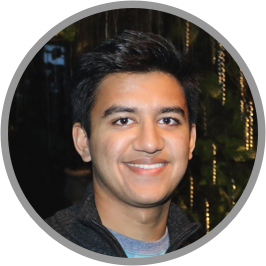
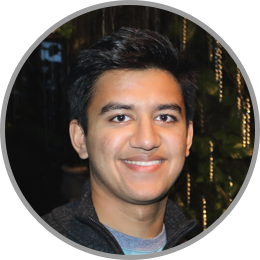
adjusted picture, changed colors, add resume link

diff --git a/index.html b/index.html
@@ -33,9 +33,7 @@
   				<!-- picture frame -->
   				<div onclick="" class="col-md-4 col-sm-4 col-xs-12 center-block" id="image-holder" style="text-align:right; margin-top: 110px;">
   					<img class="home-image" src="Resources/picture_frame.png">
-  					<img class="home-image hiddenFrame one" src="Resources/picture_frame.png">
-  					<img class="home-image hiddenFrame" src="Resources/picture_frame.png">
-  					<img class="home-image hiddenFrame" src="Resources/picture_frame.png">
+  
   				</div>
 
   				<div class="col-md-8 col-sm-8 col-xs-12" id="title-holder">
@@ -56,6 +54,9 @@
   							<img id="contact-button" src="Resources/contact_button.png">
   						</button>
   					</div>
+            <div style="text-align:center; margin-top:10px;">
+                <a href="Resources/Agarwal_Resume.pdf" target="_blank" style="color:white; text-align:center; margin-left: 20px;"><u>View Résumè</u></a>
+            </div> 
   				</div>
   			</div>
   		</div>

diff --git a/javascripts/source.js b/javascripts/source.js
@@ -1,6 +1,6 @@
-var colors = ["#16a085", "#27ae60", "#2980b9", "#8e44ad", "#2c3e50", "#3498db"];
+var colors = ["#16a085", "#2980b9", "#3498db", "#e74c3c", "#e67e22"];
 var skillPercents = ["90%", "70%", "60%", "80%", "35%"];
-var colorTransitionTime = 5000;
+var colorTransitionTime = 10000;
 var timeBetweenTypedText = 2000;
 var scrollPosition;
 var skillsShowing = false;
